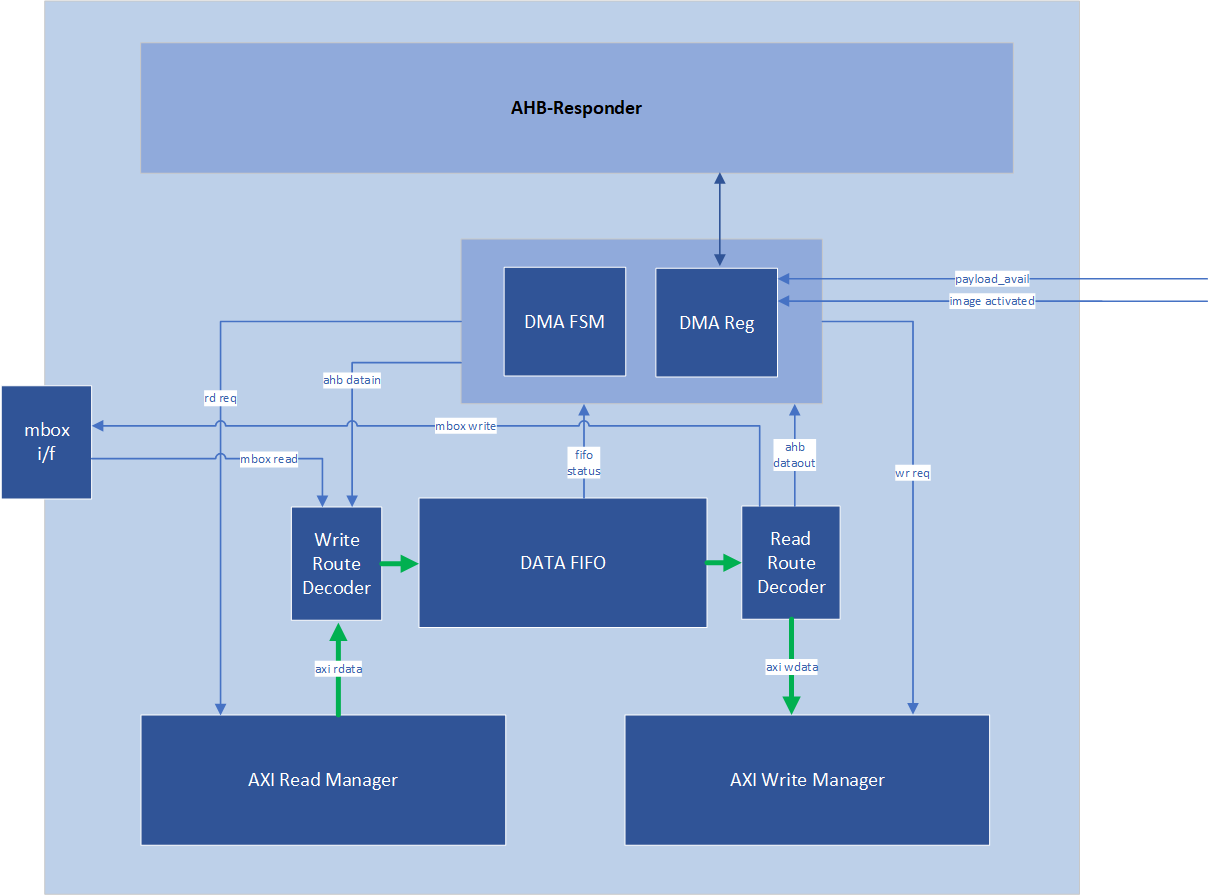
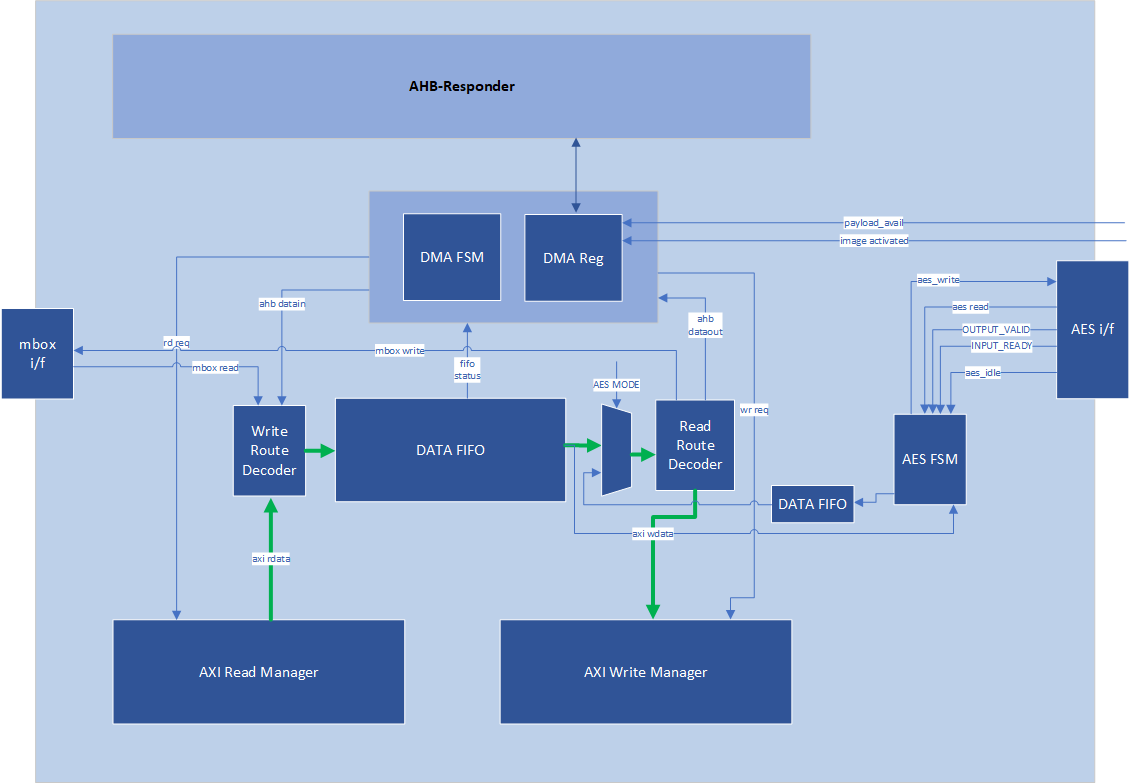
[DOC/RTL] Add AES DMA Spec and DMA AES from Caliptra-RTL - 2.1 (#557)
* Add AES to AXI DMA Diagram

* Add AXI DMA AES diagram

* Initial AES DMA spec

* Add AES Mode to programming flowchart for DMA

* Fix pointer to DMA image

* Add AES mode to configuration

* Add AES AXI access restrictions

* Update docs/CaliptraSSHardwareSpecification.md

* Update docs/CaliptraSSHardwareSpecification.md

* Update docs/CaliptraSSHardwareSpecification.md

* Update docs/CaliptraSSHardwareSpecification.md

* Update docs/CaliptraSSHardwareSpecification.md

* Update docs/CaliptraSSHardwareSpecification.md

* [Spec] AES DMA mention GCM mode and DWORD alignment requirement

* [DOC] Update AXI DMA images with AES connection

* [DOC] Mention DMA AES endianness

* Update docs/CaliptraSSHardwareSpecification.md

* Update docs/CaliptraSSHardwareSpecification.md

* Update endian capabilities for AES DMA

* Update caliptra-rtl pointer which has AES DMA

* MICROSOFT AUTOMATED PIPELINE: Stamp 'ckuchta-axi-dma-aes-spec-2.1' with updated timestamp and hash after successful run

* Add AES spec link

* Update DMA images

---------

diff --git a/docs/CaliptraSSHardwareSpecification.md b/docs/CaliptraSSHardwareSpecification.md
@@ -36,6 +36,7 @@
   - [AXI Feature Support](#axi-feature-support)
   - [Routes](#routes)
   - [OCP Streaming Boot Payloads](#ocp-streaming-boot-payloads)
+  - [AES Mode](#aes-mode)
   - [Programming Flowchart {#programming-flowchart}](#programming-flowchart-programming-flowchart)
   - [Descriptor](#descriptor)
 - [Caliptra Subsystem Fuse Controller](#caliptra-subsystem-fuse-controller)
@@ -292,7 +293,7 @@ Caliptra ROM & RT firmware must program DMA assist with correct image size (mult
 Received transfer data can be obtained by the driver via a read from XFER_DATA_PORT register. Received data threshold is indicated to BMC by the controller with TX_THLD_STAT interrupt if RX_THLD_STAT_EN is set. The RX threshold can be set via RX_BUF_THLD. In case of a read when no RX data is available, the controller shall raise an error on the frontend bus interface (AHB / AXI).
 
 # Caliptra Core AXI Manager & DMA assist
-SOC\_IFC includes a hardware-assist block that is capable of initiating DMA transfers to the attached SoC AXI interconnect. The DMA transfers include several modes of operation, including raw transfer between SoC (AXI) addresses, moving data into or out of the SOC\_IFC mailbox, and directly driving data through AHB CSR accesses to datain/dataout registers. One additional operating mode allows the DMA engine to autonomously wait for data availability via the OCP Recovery interface (which will be slowly populated via an I3C or similar interface). 
+SOC\_IFC includes a hardware-assist block that is capable of initiating DMA transfers to the attached SoC AXI interconnect. The DMA transfers include several modes of operation, including raw transfer between SoC (AXI) addresses, moving data into or out of the SOC\_IFC mailbox, directly encrypting/decrypting images with the AES block, and directly driving data through AHB CSR accesses to datain/dataout registers. One additional operating mode allows the DMA engine to autonomously wait for data availability via the OCP Recovery interface (which will be slowly populated via an I3C or similar interface). 
 
 Caliptra arms transfers by populating a transaction descriptor to the AXI DMA CSR block via register writes over the internal AHB bus. Once armed, the DMA will autonomously issue AXI transactions to the SoC until the requested data movement is completed. The DMA uses an internal FIFO to buffer transfer data. For any transfer using AXI Writes (Write Route is not disabled), the DMA waits until sufficient data is available in the FIFO before initiating any AXI write requests.
 
@@ -347,6 +348,43 @@ When programming an AXI to AXI transfer for a Streaming Boot Payload (e.g., to t
 
 In all cases other than reading Recovery Interface Payloads, the block\_size register must be programmed to 0\.
 
+## AES Mode
+
+The DMA block can directly stream images from AXI to AES for decrypt/encrypt, and then stream the processed image over AXI to some SOC storage. This can be done by configuring the AXI DMA as:
+
+* AES Mode == 1
+* (optional) aes_gcm_mode in DMA == 1
+* Read Route == AXI
+* Write Route == AXI
+* Block Size == 0 (OCP Stream Boot Disabled)
+* Read/Write Fixed == 0 
+* Source Address == Start of image
+* Destination Address == Start address where processed image should be stored
+* Configure Byte Count - must be DWORD aligned
+
+Other Read/Write Routes and Block sizes are not supported.
+
+The AXI DMA AES Mode ONLY streams the image into and out of AES. It is Firmware's responsibility to:
+
+1. Fully configure AES before streaming the image via AXI DMA
+2. Push the IV, AAD header, and any other data into AES before streaming the image via AXI DMA
+3. Retrieve any tags from AES after the image has been processed.
+ 
+
+If the input image size is not a multiple of 4 DWORDS, the AES FSM will properly pad the AES input data with 0s. When streaming the image out it reads all 4 DWORDS from the AES, but only writes up to the last DWORD of the image to the destination. If ``aes_gcm_mode`` register is set, at the start of the transfer it updates the GCM shadow byte count and phase registers in AES to the appropriate byte count and GCM_TEXT phase. Before the last block transfer to the AES it will again update the GCM shadow register to the appropriate values. 
+
+Input images can be in **little endian** or **big endian**. It is FW's responsibility to configure the AES wrapper's ENDIAN_SWAP register.  
+
+If AXI DMA encounters any errors (AXI or other errors) it will finish the transfer and report an error. It is the Firmware's responsibility to clear the error in the AXI DMA and flush the AES if required. 
+
+When AXI DMA is using AES Caliptra shall not try to access AES via AHB until AXI DMA has completed.
+
+AES is not directly exposed on the AXI bus for external entities, it is protected behind the AXI DMA and can only be accessed via Caliptra uC AHB or the Caliptra DMA. 
+
+*AES Mode: Read Route \== AXI, Write Route \== AXI, AES Mode \== 1*
+
+![](./images/Caliptra-AXI-DMA-AES.png)
+
 ## Programming Flowchart {#programming-flowchart}
 
 General Rules:
@@ -358,8 +396,8 @@ General Rules:
 5. If Read Route is disabled, Read Fixed field is ignored.  
 6. If Write Route is disabled, Write Fixed field is ignored.  
 7. Addresses and Byte Counts must be aligned to AXI data width (1 DWORD).
-
 8. Block Size is used only for reads from the Subsystem Recovery Interface. When block size has a non-zero value, the DMA will only issue AXI read requests when the payload available input signal is set to 1, and will limit the size of read requests to the value of block size. For all other transactions (such as AXI writes, or any single-dword access to a subsystem register via the DMA), block size shall be set to a value of 0 for every transaction.
+9. AES mode is only valid with Read/Write routes AXI RD -> AXI WR, Read/Write Fixed = 0, and Block Size 0.
 
 Steps:
 
@@ -374,16 +412,22 @@ Steps:
    1. First acquire Sha Accel Lock via AXI by using this flow (with the AHB-\> AXI WR route) to initiate AXI manager action  
    2. Initiate Sha Accel streaming operation via AXI by using this flow (with the AHB-\> AXI WR route) to initiate AXI manager action  
    3. Run this operation with the AXI RD \-\> AXI WR route to move data from SoC location into Sha Accelerator  
-8. Set Control Register  
+8. If AES Mode:
+   1. Fully configure AES with IV/KEY see [AES spec for more details](https://github.com/chipsalliance/caliptra-rtl/blob/main/docs/CaliptraHardwareSpecification.md#aes)
+   2. Stream in any header info to AES like AAD
+   3. Set read/write routes to AXI
+   4. Set AES_MODE in DMA
+   5. Set aes_gcm_mode in DMA if this is the AES mode
+9.  Set Control Register  
    1. Set Read/Write Routes  
    2. Set Read/Write Fixed=0/1  
    3. GO  
    4. (All 3 may be single write or separate, GO must be last bit to set)  
-9. If AHB data: Wait for RD FIFO not empty or WR FIFO not full  
+10. If AHB data: Wait for RD FIFO not empty or WR FIFO not full  
    1. Push/Pop data (using Rd Data/Wr Data register offsets) until all requested bytes transferred  
    2. If AHB Error – check status0 for Error, then check for “Command Error”   
-10. Wait for TXN Done Interrupt (or Poll Status0)   
-11. Read Status0, confirm Busy=0, Error=0
+11. Wait for TXN Done Interrupt (or Poll Status0)   
+12. Read Status0, confirm Busy=0, Error=0
 
 ## Descriptor
 
